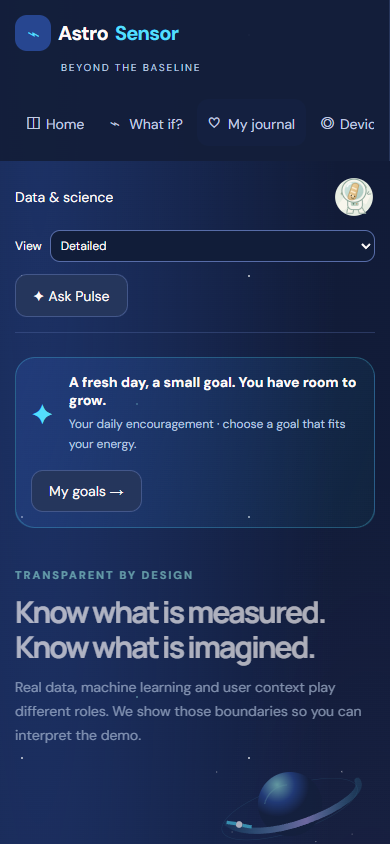
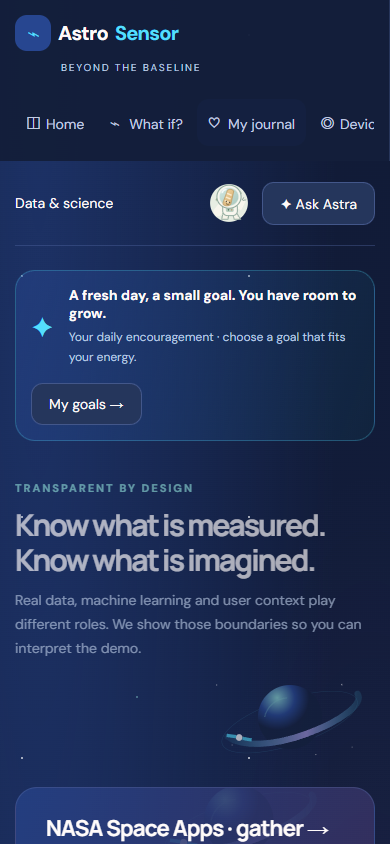
what if?

diff --git a/astra-pulse/pulse.js b/astra-pulse/pulse.js
@@ -1,11 +1,11 @@
 /* Offline website retrieval: TF-IDF + curated concept expansion, no generative model. */
 const Astra=(()=>{
  const docs=[
-  ['start','Getting started','dashboard','start begin navigate tour use website purpose home astro sensor help features','Astro Sensor lets you explore health recordings, try hypothetical changes, log your own measurements and understand the sensor concepts. Start with Home for sample data, What if? for experiments, or My journal for your own entries.','Choose Everyday for a simpler view. Detailed also reveals the scenario training controls. No account or installation is needed.'],
+  ['start','Getting started','dashboard','start begin navigate tour use website purpose home astro sensor help features','Astro Sensor lets you explore health recordings, try hypothetical changes, log your own measurements and understand the sensor concepts. Start with Home for sample data, What if? for experiments, or My journal for your own entries.','On What if?, select Show advanced model settings to reveal optional training controls. No account or installation is needed.'],
   ['recordings','Play a research recording','dashboard','recording replay home dashboard play drag position seconds heart rate plot original','On Home, choose a research recording and drag Recording position or press Play recording. The cards and chart follow the selected second. The line reveals readings up to that position; gaps mean missing measurements.','There are six BIDMC clinical recordings, each with 481 one-second numerical rows. These are Earth clinical data, not typical astronaut values.'],
   ['scenario','Change a scenario','lab','scenario what if simulate simulation slider type numbers controls experiment inputs change parameters','Open What if?, choose a preset, then type a number or move a slider for sleep, heart rate, blood pressure, stress or sweat. The timeline, index and next steps update together.','Viewing day chooses which simulated day you see. Your changes build from day 11 to day 20; early days may therefore still look like the baseline. These are hypothetical changes, not predictions of your body.'],
   ['timeline','Why a scenario looks unchanged','lab','scenario plot graph unchanged same nothing change viewing day timeline day slider baseline','Check Viewing day: the selected changes build from day 11 to day 20. Set it to day 20 or later to see their full effect, and choose the matching Plot measurement.','Changing sleep changes the simulated sleep trace; it does not assert that sleep causes a learned heart-rate change. The generator uses explicit rules for separate inputs.'],
-  ['generate','Train and generate a trace','lab','training train generate seed another trace detailed invisible hidden button generator','Switch View to Detailed, then scroll to the training section on What if?. Select a recording and seed, then press Train & generate 30 days. Generate another trace changes the seed.','The generator samples ten-row blocks from complete observations in the first 240 seconds of the selected BIDMC recording. It recenters heart rate to a hypothetical 62 beats per minute baseline. The 30-day output is synthetic; generating more rows does not create new research participants.'],
+  ['generate','Train and generate a trace','lab','training train generate seed another trace detailed invisible hidden button generator','On What if?, select Show advanced model settings, then scroll to the training section. Select a recording and seed, then press Train & generate 30 days. Generate another trace changes the seed.','The generator samples ten-row blocks from complete observations in the first 240 seconds of the selected BIDMC recording. It recenters heart rate to a hypothetical 62 beats per minute baseline. The 30-day output is synthetic; generating more rows does not create new research participants.'],
   ['journal','Add a journal entry','tracker','journal log record input track personal measurements checkin check-in save daily health entry readings','Open My journal, choose a date and enter any readings you have. Leave unknown values blank. Press Save check-in. Saving the same date replaces that date’s entry.','Use measured values where available. Blood pressure comes from a separate cuff; stress and sweat are your own ratings. You can also add context or notes.'],
   ['range','Enter an uncertain measurement','tracker','range uncertain unsure estimate approximate between two numbers unknown 65 75 midpoint','In My journal, you can enter one number or a range such as 65-75. We retain both ends and use the midpoint—70 in that example—for plots and calculations. Leave a measurement blank when it is unknown.','The original range appears in the journal table and CSV export. Its width is not propagated as model uncertainty, so an estimated range is not the same as an exact sensor measurement.'],
   ['units','Understand the measurement units','tracker','units abbreviation bpm hr bp mmhg spo2 eda h per minute stands mean means definition','bpm means beats per minute; HR means heart rate; BP means blood pressure; mmHg means millimeters of mercury. SpO₂ is estimated blood oxygen saturation, and EDA is electrodermal activity, or skin conductance.','Sleep is entered in hours. Stress and sweat use a score out of ten (_/10). Systolic is the top BP number; diastolic is the bottom number.'],
@@ -25,7 +25,7 @@ const Astra=(()=>{
   ['models','Use the 3D devices','wearable','3d rotate spin drag model wrist watch ear cuff arrows sensors graphic concept','On Devices & goals, drag the watch or use arrow keys to rotate it. Click a flashing sensor or its arrow to open an explanation. The cuff has its own model, and the ear concept also rotates with drag or arrow keys.','The models illustrate proposed hardware; they do not collect data themselves. The ear concept would require ear-specific fit and accuracy validation. Auto-rotation is optional and respects reduced-motion preferences.'],
   ['sensors','What the sensors can measure','wearable','sensors optical oxygen pulse temperature motion skin conductance sweat eda ppg ear collect measure','The watch concept includes optical pulse, red/infrared oxygen estimation, skin-conductance electrodes, motion and skin-temperature sensors. Click each marker for how collection and processing could work.','A separate validated cuff supplies blood pressure. Sweat or EDA alone cannot determine stress, hydration or mental health; stress remains a self-reported check-in.'],
   ['wellbeing','The seven wellbeing dimensions','wellbeing','wellbeing guide dimensions seven 7 realms physical mental emotional social spiritual religious intellectual occupational environmental steps break hydrate conversation declutter','The guide covers physical, mental/emotional, social, spiritual/religious, intellectual, occupational and environmental wellbeing. Open Explore small steps under a dimension for a practical action.','These seven groupings are an educational project choice, not an official NASA diagnostic framework. Religious practice is optional. A wearable or number cannot capture a whole person.'],
-  ['mode','Switch between simple and detailed views','dashboard','mode everyday easy simple sophisticated advanced detailed view hide training controls navigation','Use View in the top bar to switch between Everyday and Detailed. Everyday keeps the scenario training section out of the main flow; Detailed reveals those controls. Both views keep the core journal, charts and device tools.','You can change the view without deleting your journal or goals. It currently resets to Everyday when you reload the page.'],
+  ['mode','Switch between simple and detailed views','dashboard','mode everyday easy simple sophisticated advanced detailed view hide training controls navigation','On What if?, select Show advanced model settings to reveal training, seed and trace controls. Clear the checkbox to hide them. This switch only affects that page; there is no global view mode.','Showing or hiding advanced settings does not delete your journal or goals. Advanced settings start hidden when you reload.'],
   ['pulse','What Astra can do','dashboard','pulse chatbot chat bot assistant helper smart questions conversation answers limitations cost offline free','I answer questions about Astro Sensor’s pages, controls, datasets, ML and device limitations. You can ask follow-ups such as “how do I use that?” or “tell me more.” My answers come from a curated local knowledge base.','I use text retrieval and curated synonyms, not a large language model. There are no API calls or fees. I cannot diagnose symptoms, browse the internet or operate your devices. Chat history stays in this open page and can be cleared.'],
   ['offline','Use the site offline','science','offline internet network server funding free cost download install','The core site uses bundled data and browser-local computation with no required account, build or API fees. Once the files are available locally, the journal, models and helper work without a cloud AI service.','The published site still needs network access to load initially; there is no installable offline cache guarantee. External source links and optional web fonts need internet. Bluetooth support depends on your browser and device.']
  ].map(([id,title,page,tags,answer,more])=>({id,title,page,tags,answer,more}));

diff --git a/astra-pulse/astro.js b/astra-pulse/astro.js
@@ -12,7 +12,7 @@ const baseWearable=wearablePage;wearablePage=()=>baseWearable()+devicesExtra();
 const baseTracker=trackerPage;trackerPage=()=>baseTracker()+journalInsights();
 const baseWellbeing=wellbeingPage;wellbeingPage=()=>baseWellbeing()+`<p class="correlation-note">The journal’s correlation and recent-average forecast are exploratory. They do not establish causation or predict medical outcomes.</p>`;
 const baseBind=bind;bind=function(){baseBind();bindAstro()};
-const baseRender=render;render=function(){baseRender();document.body.dataset.mode=viewMode;const header=qs('.topbar');header.insertAdjacentHTML('afterend',dailySupport());header.insertAdjacentHTML('beforeend',`<label class="mode-control">View <select id="view-mode"><option value="easy" ${viewMode==='easy'?'selected':''}>Everyday</option><option value="detail" ${viewMode==='detail'?'selected':''}>Detailed</option></select></label>`);qs('#view-mode').onchange=e=>{viewMode=e.target.value;render()};qs('.daily-support button').onclick=()=>go('wearable');qs('.main').insertAdjacentHTML('beforeend',`<details class="pulse-helper"><summary>✦ Ask Astra</summary><p>A local AI-style guide that adapts to this page, your goals and journal count. Uses transparent response rules; no online language model or uploads.</p><form id="pulse-form"><label for="pulse-question">What would you like help with?</label><input id="pulse-question" maxlength="300" placeholder="For example: How do I log a range?" required><button>Ask Astra</button></form><p id="pulse-reply" role="status">${escapeHTML(pulseReply('hello'))}</p></details>`);qs('#pulse-form').onsubmit=e=>{e.preventDefault();qs('#pulse-reply').textContent=pulseReply(qs('#pulse-question').value)};const technical=qs('#train')?.closest('section');if(technical)technical.classList.add('technical-section');if('IntersectionObserver'in window&&!matchMedia('(prefers-reduced-motion: reduce)').matches){const observer=new IntersectionObserver(entries=>entries.forEach(entry=>{if(entry.isIntersecting){entry.target.classList.add('revealed');observer.unobserve(entry.target)}}),{threshold:.04});document.querySelectorAll('.card,.hero').forEach(el=>{el.classList.add('scroll-reveal');observer.observe(el)})}};
+const baseRender=render;render=function(){baseRender();document.body.dataset.mode=viewMode;const header=qs('.topbar');header.insertAdjacentHTML('afterend',dailySupport());qs('.daily-support button').onclick=()=>go('wearable');qs('.main').insertAdjacentHTML('beforeend',`<details class="pulse-helper"><summary>✦ Ask Astra</summary><p>A local AI-style guide that adapts to this page, your goals and journal count. Uses transparent response rules; no online language model or uploads.</p><form id="pulse-form"><label for="pulse-question">What would you like help with?</label><input id="pulse-question" maxlength="300" placeholder="For example: How do I log a range?" required><button>Ask Astra</button></form><p id="pulse-reply" role="status">${escapeHTML(pulseReply('hello'))}</p></details>`);qs('#pulse-form').onsubmit=e=>{e.preventDefault();qs('#pulse-reply').textContent=pulseReply(qs('#pulse-question').value)};const technical=qs('#train')?.closest('section');if(technical){technical.classList.add('technical-section');technical.insertAdjacentHTML('beforebegin',`<label class="toggle advanced-toggle"><input id="advanced-model-settings" type="checkbox" aria-controls="advanced-model-panel" ${viewMode==='detail'?'checked':''}> Show advanced model settings</label>`);technical.id='advanced-model-panel';qs('#advanced-model-settings').onchange=e=>{viewMode=e.target.checked?'detail':'easy';document.body.dataset.mode=viewMode}};if('IntersectionObserver'in window&&!matchMedia('(prefers-reduced-motion: reduce)').matches){const observer=new IntersectionObserver(entries=>entries.forEach(entry=>{if(entry.isIntersecting){entry.target.classList.add('revealed');observer.unobserve(entry.target)}}),{threshold:.04});document.querySelectorAll('.card,.hero').forEach(el=>{el.classList.add('scroll-reveal');observer.observe(el)})}};
 function updateWatchGoal(){const screen=qs('.watch-screen');if(screen)screen.innerHTML=`<small>ASTRO SENSOR · GOALS</small><strong>${goals.movement}<span> min move</span></strong><small>${goals.sleep}h sleep · You got this!</small>`}
 function bindAstro(){document.querySelectorAll('[data-health-number]').forEach(el=>el.oninput=()=>{if(!el.value||!el.checkValidity())return;const k=el.dataset.healthNumber;qs('[data-health="'+k+'"]').value=el.value;qs('[data-health="'+k+'"]').dispatchEvent(new Event('input',{bubbles:true}))});document.querySelectorAll('[data-health]').forEach(el=>{const old=el.oninput;el.oninput=e=>{old(e);qs('[data-health-number="'+el.dataset.health+'"]').value=el.value}});if(qs('#journal-form')){qs('#journal-form').insertAdjacentHTML('afterbegin','<p class="notice">Not sure of an exact number? Enter a range, such as 65-75. We save both ends and use the midpoint. bpm means beats per minute; mmHg means millimeters of mercury. Stress and sweat use a score out of ten (_/10).</p>')};updateWatchGoal();if(qs('#goals-form')){qs('#goals-form').oninput=()=>{const f=qs('#goals-form');if(f.checkValidity()){goals={sleep:+f.elements.sleep.value,movement:+f.elements.movement.value};updateWatchGoal()}};qs('#goals-form').onsubmit=e=>{e.preventDefault();try{localStorage.setItem('astro-goals',JSON.stringify(goals));qs('#goal-status').textContent='Goals saved on this browser and shown on the watch preview.'}catch{qs('#goal-status').textContent='Browser storage unavailable. Goals remain for this session.'}};qs('#share-goals').onclick=()=>download([{...goals,source:'Astro Sensor user-set goals',date:new Date().toISOString()}],'astro-sensor-goals.csv');qs('#connect-device').onclick=connectHeartDevice;qs('#disconnect-device').onclick=()=>{connectedDevice?.gatt?.disconnect();liveHeartRate=null;qs('#device-status').textContent='Disconnected.';qs('#live-hr').textContent='Waiting for a live reading'};let angle=-25,drag=null;const stage=qs('#ear-space'),update=()=>qs('#ear-device').style.transform=`rotateY(${angle}deg) rotateX(-10deg)`;stage.onkeydown=e=>{if(e.target!==stage||!['ArrowLeft','ArrowRight'].includes(e.key))return;e.preventDefault();angle+=e.key==='ArrowRight'?12:-12;update()};stage.onpointerdown=e=>{if(e.target.closest('button'))return;drag=e.clientX;stage.setPointerCapture(e.pointerId)};stage.onpointermove=e=>{if(drag===null)return;angle+=(e.clientX-drag)*.6;drag=e.clientX;update()};stage.onpointerup=stage.onpointercancel=()=>drag=null;qs('#ear-info').onclick=()=>{qs('#sensor-content').innerHTML='<h2>Ear-worn sensor concept</h2><p>An optical sensor could estimate pulse from light reflected by ear tissue; a motion sensor could track movement. Ear-specific fit, calibration and validation are required. This illustration does not collect readings. A compatible separate Bluetooth device can stream heart rate below.</p>';qs('#sensor-dialog').showModal()}}}
 async function connectHeartDevice(){const status=message=>{if(qs('#device-status'))qs('#device-status').textContent=message};if(!navigator.bluetooth||!window.isSecureContext){status('Bluetooth pairing is unavailable in this browser. Try a supported browser on HTTPS; the device concept and goals still work.');return}try{connectedDevice?.gatt?.disconnect();connectedDevice=await navigator.bluetooth.requestDevice({filters:[{services:['heart_rate']}]});connectedDevice.addEventListener('gattserverdisconnected',()=>status('Device disconnected. Reconnect when ready.'));const server=await connectedDevice.gatt.connect(),service=await server.getPrimaryService('heart_rate');heartCharacteristic=await service.getCharacteristic('heart_rate_measurement');await heartCharacteristic.startNotifications();heartCharacteristic.addEventListener('characteristicvaluechanged',event=>{const v=event.target.value;if(v.byteLength<2)return;liveHeartRate=v.getUint8(0)&1?(v.byteLength>=3?v.getUint16(1,true):null):v.getUint8(1);if(qs('#live-hr'))qs('#live-hr').textContent=liveHeartRate===null?'Incomplete reading':liveHeartRate+' beats per minute'});status('Connected to '+(connectedDevice.name||'heart-rate device')+'. Waiting for readings.')}catch(error){status(error.name==='NotFoundError'?'Pairing cancelled or no compatible device selected.':'Could not connect. Check pairing mode and support for the standard Bluetooth Heart Rate service.')}}

diff --git a/astra-pulse/index.html b/astra-pulse/index.html
@@ -1,1 +1,1 @@
-<!doctype html><html lang="en"><head><meta charset="UTF-8"><meta name="viewport" content="width=device-width,initial-scale=1"><meta name="description" content="Explore real health recordings, interactive scenarios, your personal journal and a 3D wearable concept."><title>Astro Sensor · Crew health, understood</title><link rel="stylesheet" href="style.css?v=20261025-astra3"><link rel="stylesheet" href="experience.css?v=20261025-astra3"><link rel="stylesheet" href="cuff-model.css?v=20261025-astra3"><link rel="stylesheet" href="astro.css?v=20261025-astra3"></head><body><div id="app"></div><script src="research-data.js?v=20261025-astra3"></script><script src="sleep-data.js?v=20261025-astra3"></script><script src="health-engine.js?v=20261025-astra3"></script><script src="cuff-model.js?v=20261025-astra3"></script><script src="sleep-model.js?v=20261025-astra3"></script><script src="experience.js?v=20261025-astra3"></script><script src="astro.js?v=20261025-astra3"></script><script src="pulse.js?v=20261025-astra3"></script></body></html>
+<!doctype html><html lang="en"><head><meta charset="UTF-8"><meta name="viewport" content="width=device-width,initial-scale=1"><meta name="description" content="Explore real health recordings, interactive scenarios, your personal journal and a 3D wearable concept."><title>Astro Sensor · Crew health, understood</title><link rel="stylesheet" href="style.css?v=20261025-advanced4"><link rel="stylesheet" href="experience.css?v=20261025-advanced4"><link rel="stylesheet" href="cuff-model.css?v=20261025-advanced4"><link rel="stylesheet" href="astro.css?v=20261025-advanced4"></head><body><div id="app"></div><script src="research-data.js?v=20261025-advanced4"></script><script src="sleep-data.js?v=20261025-advanced4"></script><script src="health-engine.js?v=20261025-advanced4"></script><script src="cuff-model.js?v=20261025-advanced4"></script><script src="sleep-model.js?v=20261025-advanced4"></script><script src="experience.js?v=20261025-advanced4"></script><script src="astro.js?v=20261025-advanced4"></script><script src="pulse.js?v=20261025-advanced4"></script></body></html>

diff --git a/README.md b/README.md
@@ -8,7 +8,7 @@ The website includes a real-data dashboard, an interactive 30-day scenario sandb
 
 ### Open the website
 
-Published website: [Open Astro Sensor](https://jennyzhang9.github.io/SpaceBaguette.github.io/astra-pulse/index.html?refresh=20261025-astra3).
+Published website: [Open Astro Sensor](https://jennyzhang9.github.io/SpaceBaguette.github.io/astra-pulse/index.html?refresh=20261025-advanced4).
 
 Double-click this folder’s index.html, or the root index.html shortcut. No installation, build step, account or server is required. All processing is browser-local. Bundled research records work offline; optional Google Fonts have system fallbacks. For a local HTTP preview, run node preview.cjs and open http://127.0.0.1:8765 .
 
@@ -18,7 +18,7 @@ Real measurements are terrestrial clinical recordings, not astronaut data. Gener
 
 ### Updated interface: Astro Sensor
 
-The site now uses a dark navy, cyan and violet space theme. Navigation labels are **Home**, **What if?**, **My journal**, **Devices & goals**, **Wellbeing guide**, **Sleep data** and **Data & science**. The **Everyday** view keeps model-training controls out of the main flow; **Detailed** reveals them. Optional scroll reveals respect reduced-motion preferences.
+The site now uses a dark navy, cyan and violet space theme. Navigation labels are **Home**, **What if?**, **My journal**, **Devices & goals**, **Wellbeing guide**, **Sleep data** and **Data & science**. On **What if?**, select **Show advanced model settings** to reveal optional training controls. There is no global view switch. Optional scroll reveals respect reduced-motion preferences.
 
 - **What if?** accepts numbers as well as sliders and includes work-shift, quiet-day and busy-day presets. Scenarios remain hypothetical.
 - **My journal** accepts single values or ranges such as `65-75`. Original ranges are retained in exported CSV and the table; charts and models use midpoints, without modeling uncertainty. Unit explanations appear beside the form and in the journal guide. Five paired sleep/heart-rate entries enable a correlation calculation; three heart-rate entries enable a simple recent-average forecast. Neither establishes causation or predicts illness.
